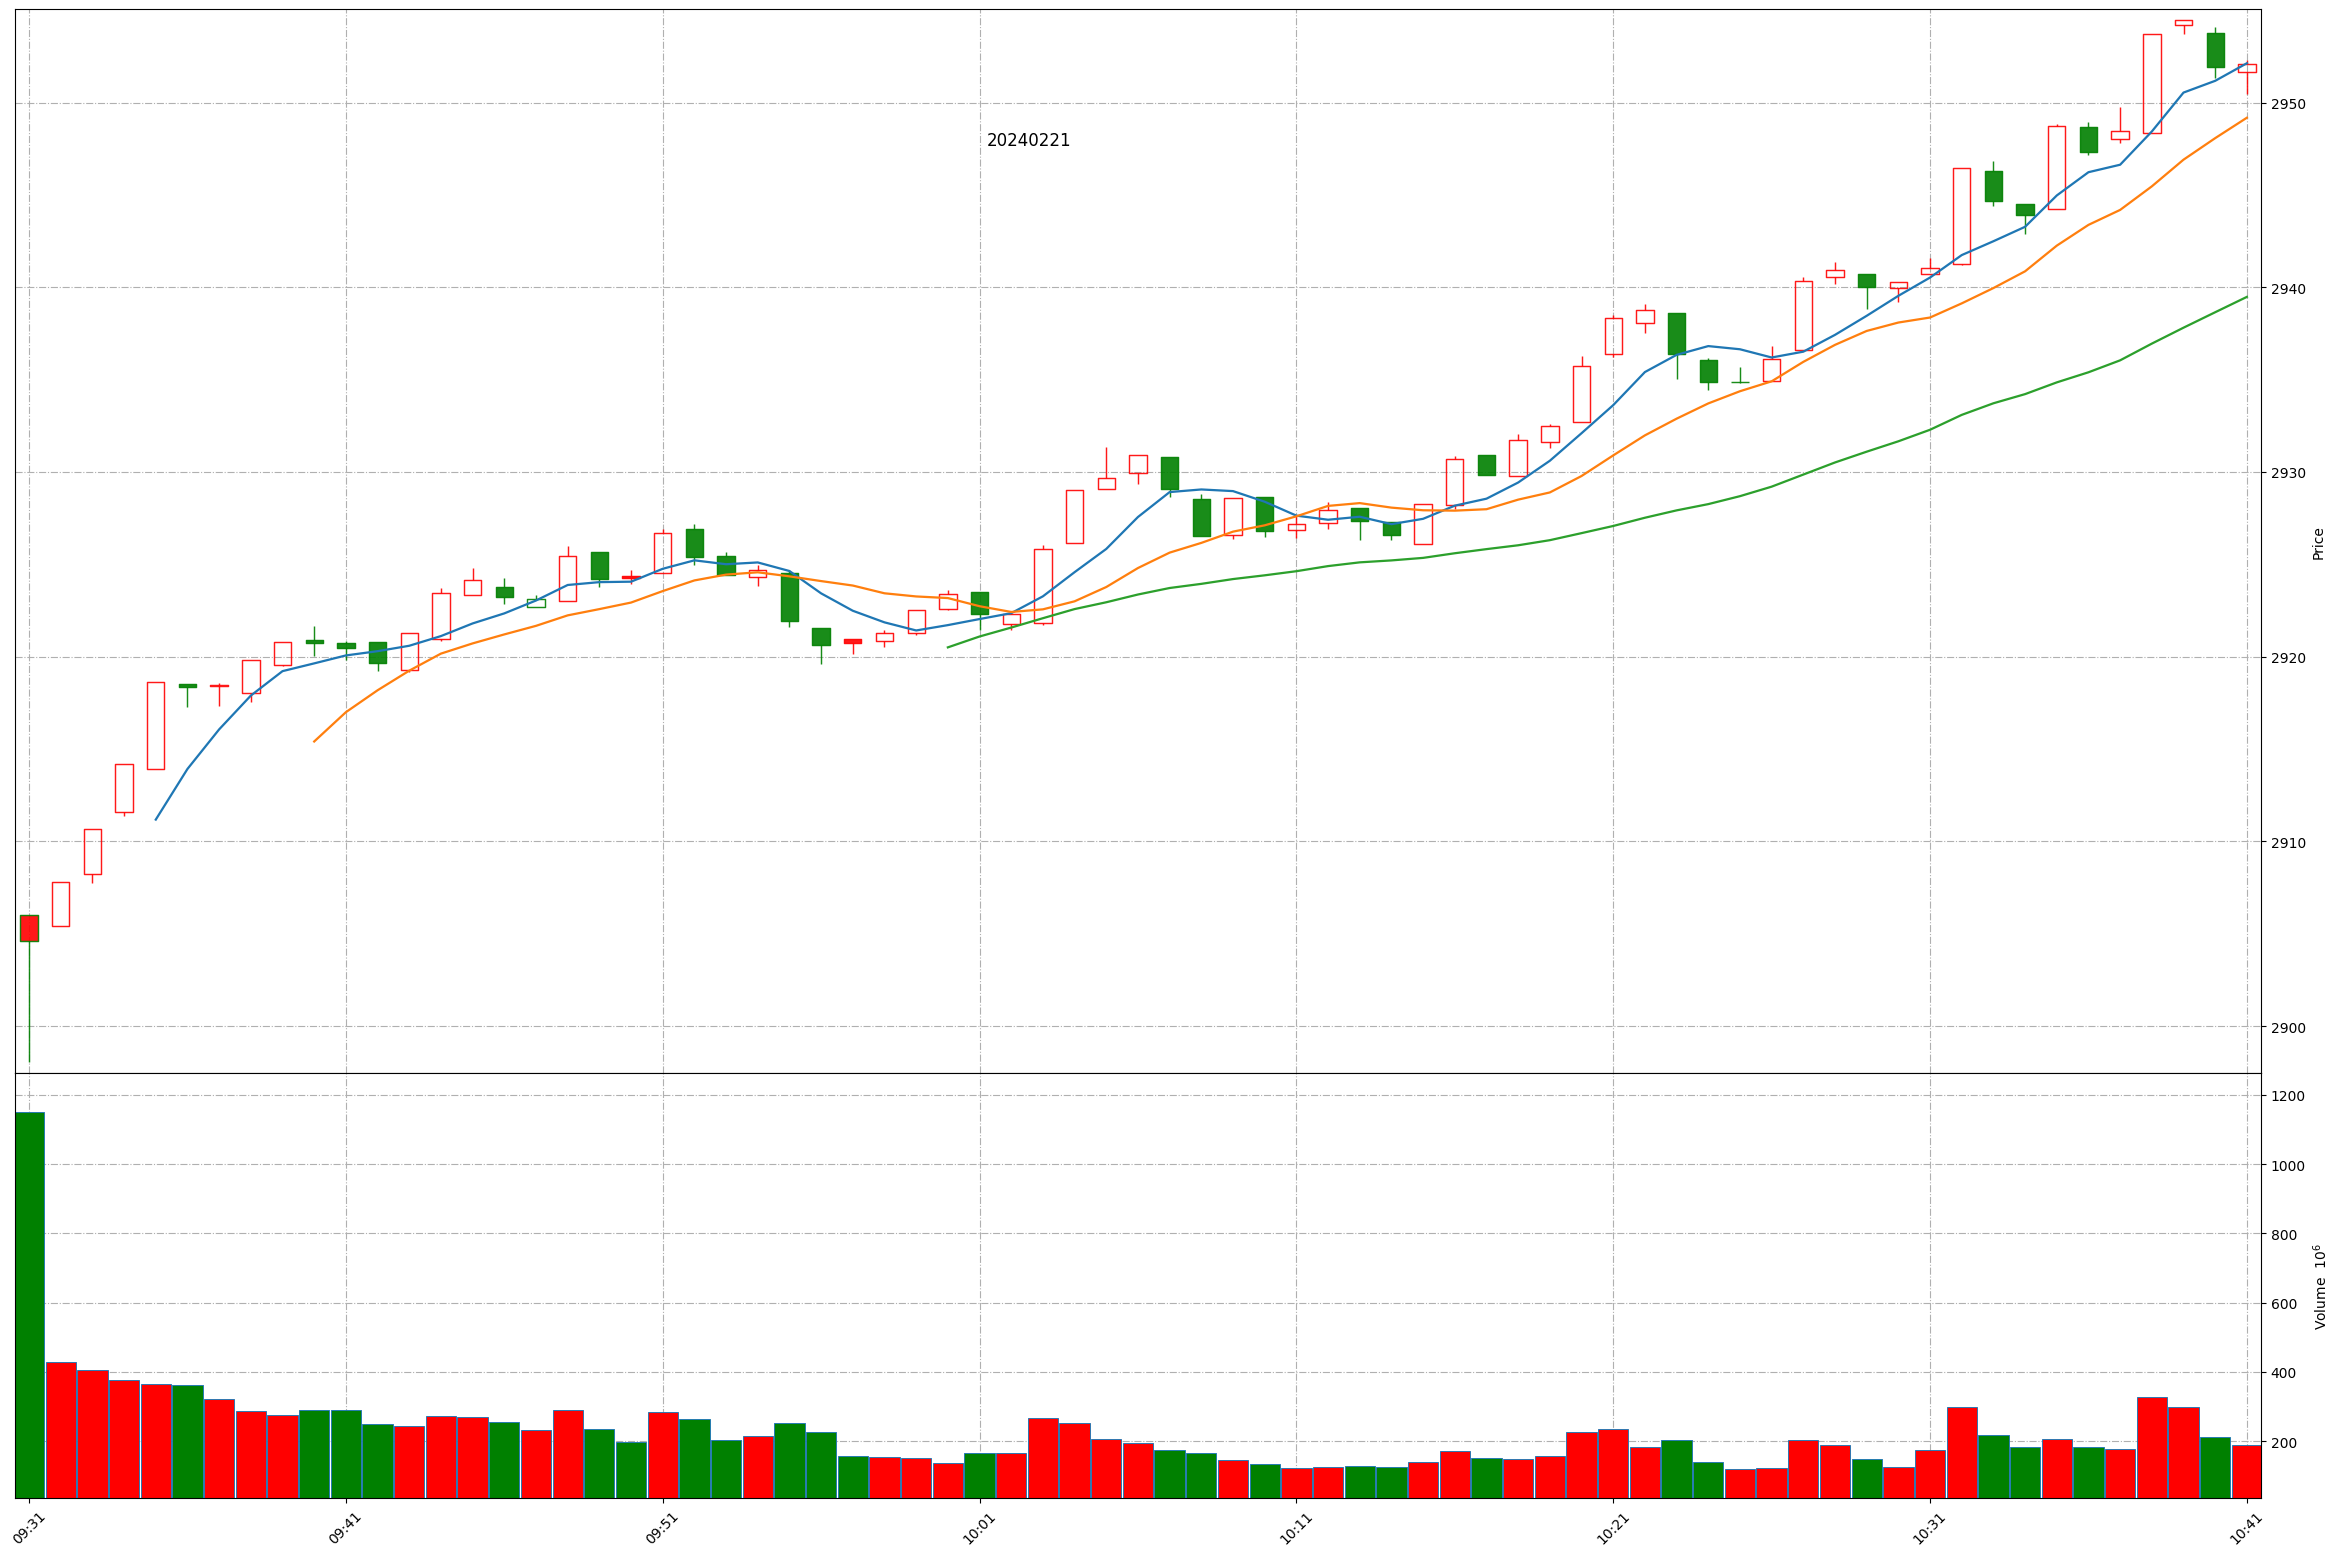
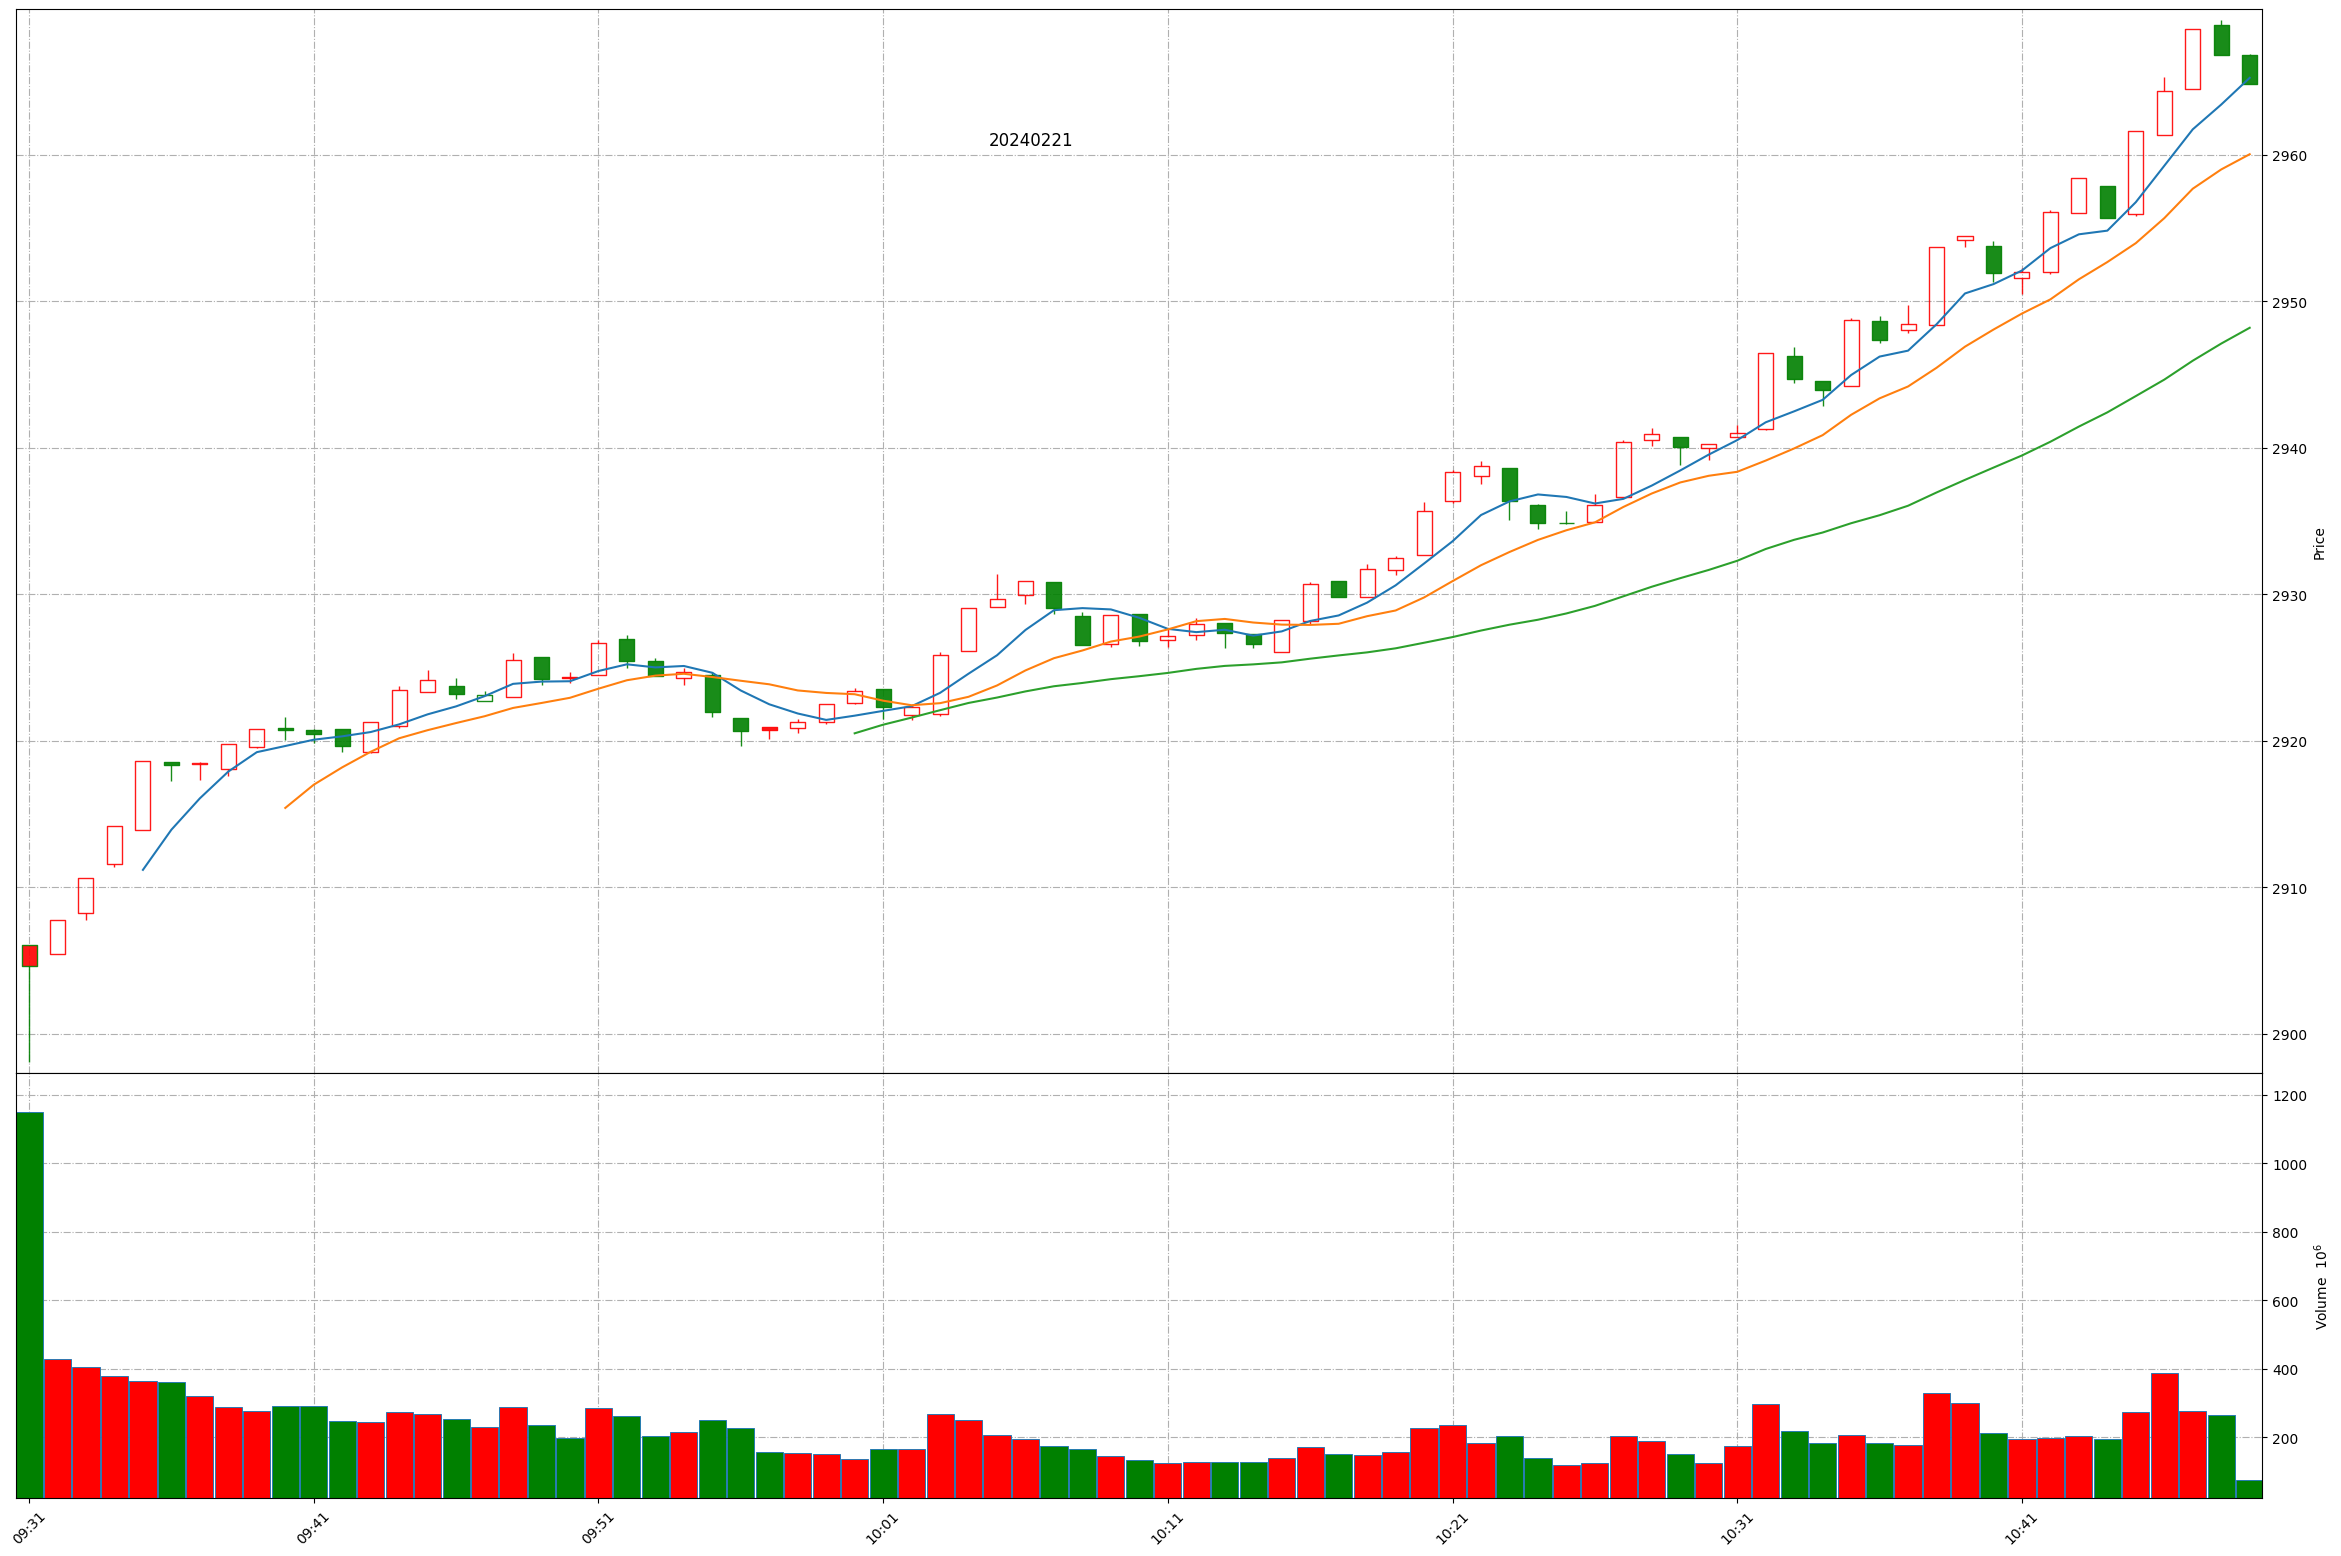
Github action update at 2024-02-21 10:48:43.

diff --git a/README.md b/README.md
@@ -1,11 +1,11 @@
 
 # Daily-A-share-market-quotes 每日 A 股指数（5min 更新）- 20240221
 
-### 上证指数 20240221 10:41
+### 上证指数 20240221 10:48
 ![](./fig/2024/2/20240221-sh000001.png)
 
-### 深证成指 20240221 10:41
+### 深证成指 20240221 10:48
 ![](./fig/2024/2/20240221-sz399001.png)
 
-### 北证50 20240221 10:41
+### 北证50 20240221 10:48
 ![](./fig/2024/2/20240221-bj899050.png)
